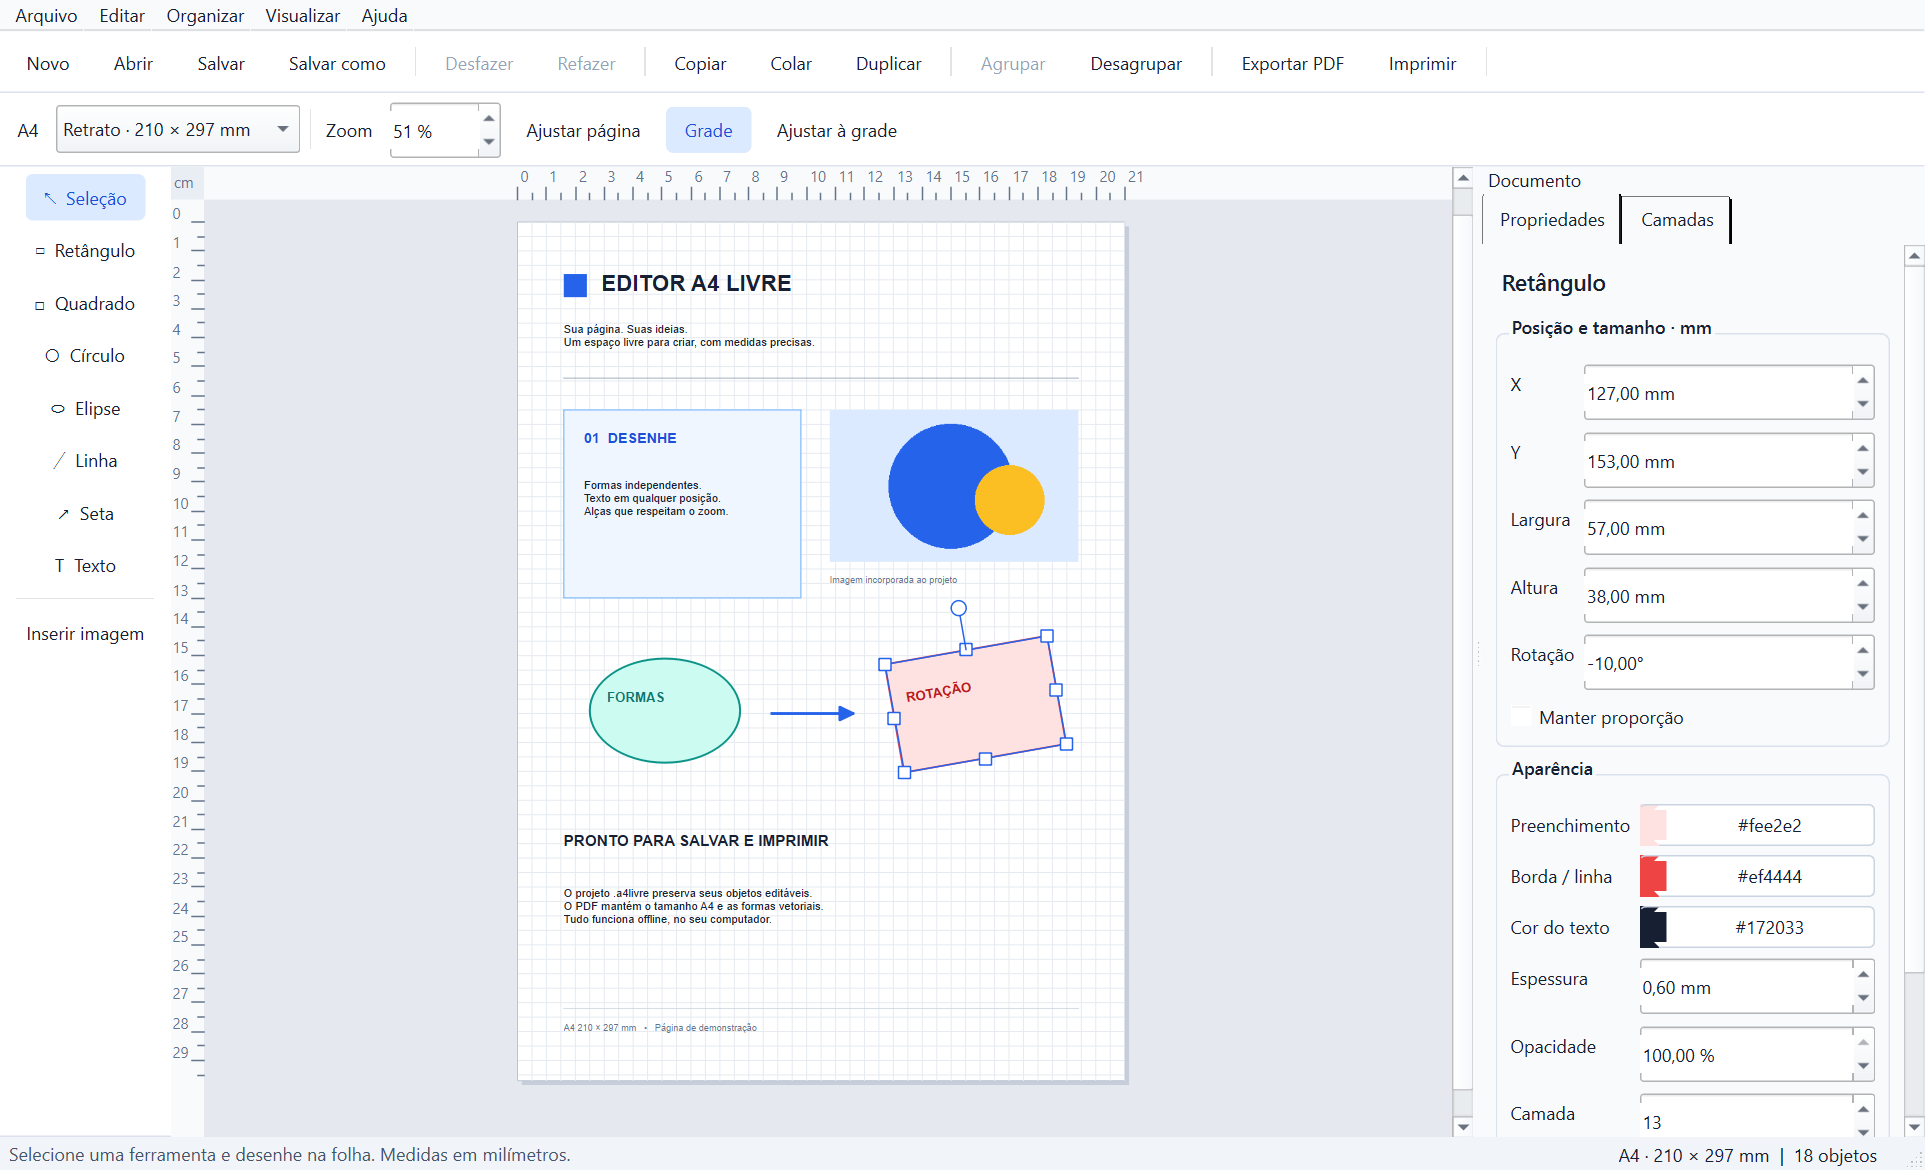
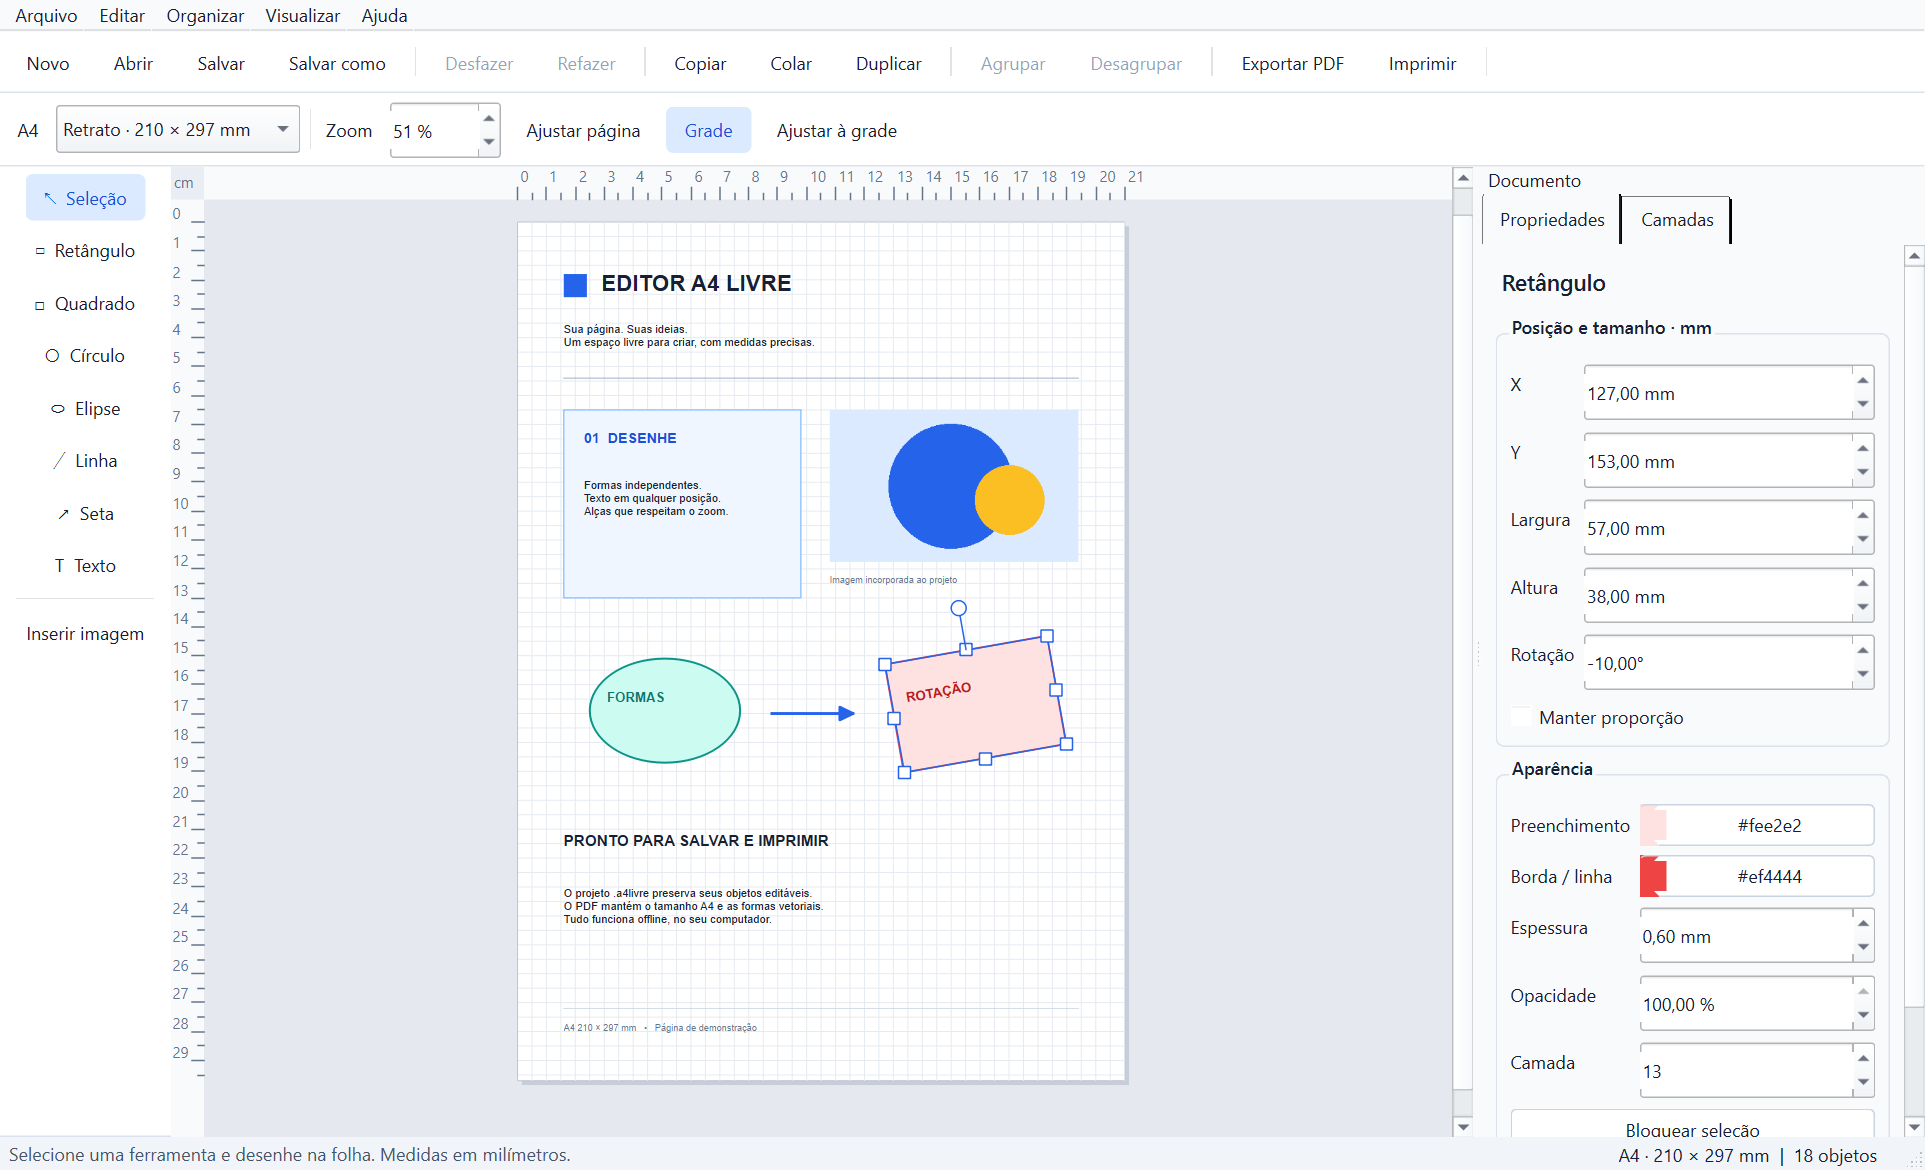
Isola DLLs do build e verifica executavel no Windows

Changed region(s): [[0.7792, 0.7692, 0.9662, 0.9846], [0.9662, 0.8308, 0.9974, 0.8615], [0.561, 0.0308, 0.5922, 0.0615]]

diff --git a/README.md b/README.md
@@ -112,9 +112,11 @@ Para gerar uma página de demonstração e uma captura da interface:
 powershell -ExecutionPolicy Bypass -File .\build_windows.ps1
 ```
 
-O script executa os testes antes de chamar PyInstaller e produz
+O script executa os testes antes de chamar PyInstaller, verifica o próprio executável e produz
 `dist/EditorA4Livre/EditorA4Livre.exe`. Distribua **a pasta inteira**.
 Parâmetros opcionais: `-Python CAMINHO_DO_PYTHON`, `-Output PASTA` e `-SkipTests`.
+O build isola o PATH para não incorporar DLLs incompatíveis de outras ferramentas
+instaladas no computador. O autoteste do executável roda mesmo com `-SkipTests`.
 
 Autoteste do pacote, sem interação ou rede:
 
